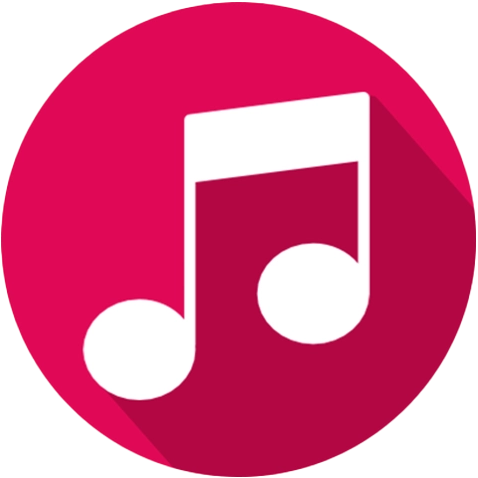
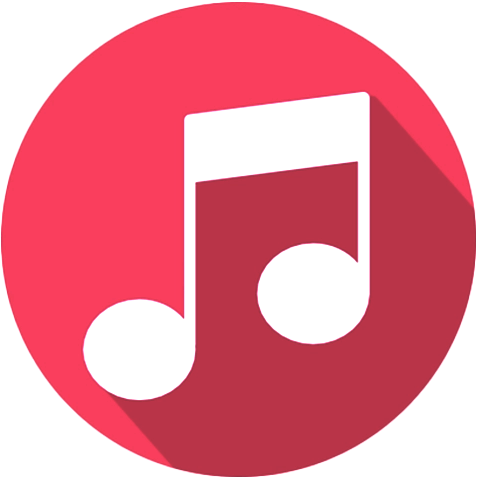
Tweaked music

diff --git a/style.css b/style.css
@@ -76,7 +76,7 @@ a {
     border-radius: 50%;
 	box-shadow: 0px 0px 3px 2px #ddd;
 	transition:  all 0.5s;
-    filter: contrast(50%) brightness(130%);
+    filter: contrast(70%) brightness(120%);
 }
 
 
